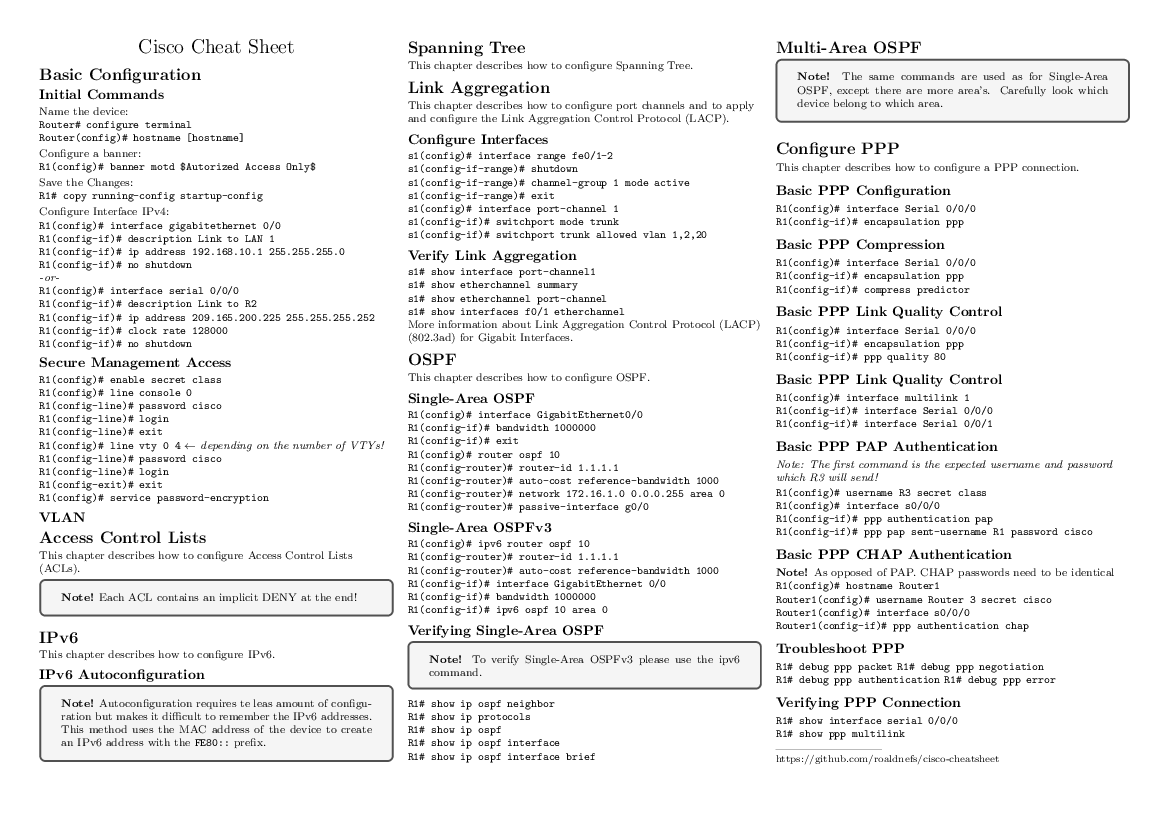
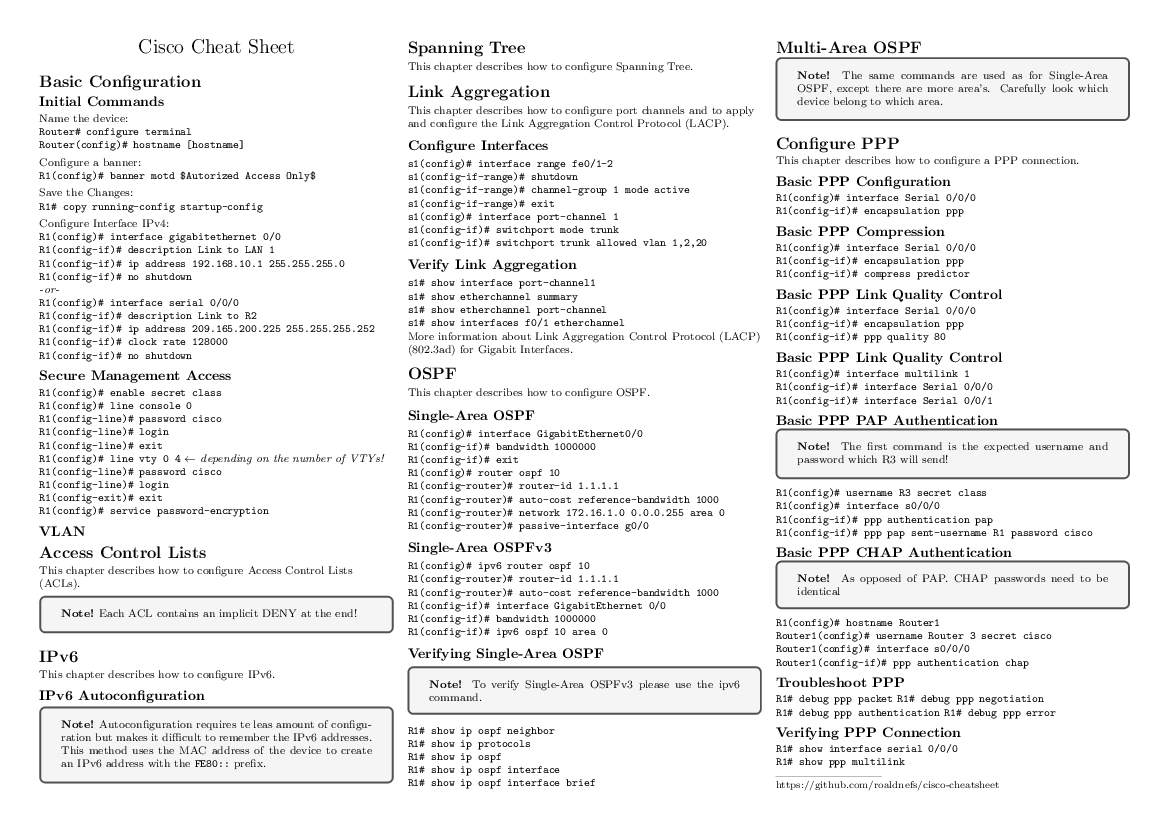
Fixed PPP

Changed region(s): [[0.0308, 0.0605, 0.9547, 0.9674]]

diff --git a/cheatsheet/ppp.tex b/cheatsheet/ppp.tex
@@ -19,7 +19,7 @@ This chapter describes how to configure a PPP connection.
 \subsection{Basic PPP PAP Authentication}
 \begin{tcolorbox}
 \textbf{Note!} The first command is the expected username and password which R3 will send!
-
+\end{tcolorbox}
 \verb!R1(config)# username R3 secret class!
 \verb!R1(config)# interface s0/0/0!
 \verb!R1(config-if)# ppp authentication pap!
@@ -28,6 +28,7 @@ This chapter describes how to configure a PPP connection.
 \subsection{Basic PPP CHAP Authentication}
 \begin{tcolorbox}
 \textbf{Note!} As opposed of PAP. CHAP passwords need to be identical
+\end{tcolorbox}
 \verb!R1(config)# hostname Router1!
 \verb!Router1(config)# username Router 3 secret cisco!
 \verb!Router1(config)# interface s0/0/0!
